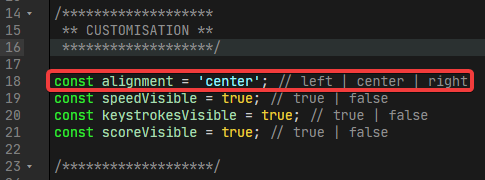
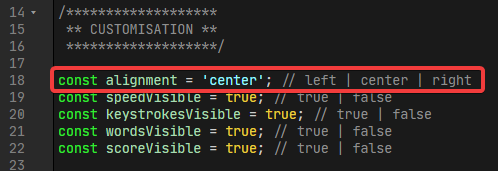
Updated README

diff --git a/README.md b/README.md
@@ -2,9 +2,9 @@
 
 1. [Preview](#preview)
 2. [What are those numbers?](#what-are-those-numbers)
-3. [Supported languages](#supported-languages)
-4. [Custom Stylish theme](#custom-stylish-theme)
-5. [How to Install](#how-to-install)
+3. [How to Install](#how-to-install)
+4. [Supported languages](#supported-languages)
+5. [Custom Stylish theme](#custom-stylish-theme)
 6. [Customization](#customization)
 7. [Auto-Update](#auto-update)
 8. [Bug reports, suggestions, contact](#bug-reports-suggestions-contact)
@@ -18,8 +18,37 @@
 All of these values are updated whenever you go to the next word (pressing space).
 
 - The "_Speed_" value is your current speed (in WPM = Words Per Minute)
-- The "_Keystrokes_" values are the number of keystrokes you hit. In green, the correct keystrokes and in red, the wrong keystrokes. On 10FF, when you typed a word wrong, all the keystrokes are considered wrong (even if you did just one mistake).
+- The "_Keystrokes_" values are the number of keystrokes you hit:
+  - In green, the correct keystrokes and in red, the wrong keystrokes
+  - On 10FF, when you typed a word wrong, all the keystrokes are considered wrong, even if you did just one mistake
+- The "_Words_" value is the number of words you typed:
+  - In green, the correct words and in red, the wrong words
+  - On 10FF, when you typed a word wrong, it is considered wrong even if you did just one mistake
 - The "_Score_" value is your current score (in WPM). If you stop the test, the score will be your final result. Your final result can not be less than the score.
+
+## How to Install
+
+### 1.
+Download the **tampermonkey** extension or an equivalent:
+- Chrome: https://chrome.google.com/webstore/detail/tampermonkey/dhdgffkkebhmkfjojejmpbldmpobfkfo?hl=en
+- Firefox: https://addons.mozilla.org/en-US/firefox/addon/tampermonkey/
+
+### 2.
+<details>
+  <summary>Click on the extension, then <b>Create New Script</b></summary>
+
+  ![Image](./README/1.png)
+</details>
+
+### 3.
+Copy & paste the content of the [script.js](./script.js) file, and save it
+
+### 4.
+<details>
+  <summary>Now you can go on <a href="https://10fastfingers.com/typing-test/">https://10fastfingers.com/typing-test</a> and toggle the script by clicking on the icon</summary>
+
+  ![Image](./README/2.png)
+</details>
 
 ## Supported languages
 
@@ -57,41 +86,19 @@ Here are some examples:
 
 ![Styles Preview](./README/preview_styles.png)
 
-## How to Install
-
-1. Download the [tampermonkey](https://chrome.google.com/webstore/detail/tampermonkey/dhdgffkkebhmkfjojejmpbldmpobfkfo?hl=en) Chrome extension or an equivalent
-
-2. Click on the extension, then **Create New Script**
-<details>
-  <summary>Image</summary>
-
-  ![Image](./README/1.png)
-</details>
-
-3. Copy & paste the content of the [script.js](./script.js) file, and save it
-
-4. Now you can go on https://10fastfingers.com/typing-test and toggle the script by clicking on the icon
-<details>
-  <summary>Image</summary>
-
-  ![Image](./README/2.png)
-</details>
-
 ## Customization
 
-You can change the alignment of the values by editing the `alignment` variable to `left`, `center` or `right`:
-
-![Alignments](./README/alignments.png)
-
 <details>
-  <summary>Image</summary>
+  <summary>You can change the alignment of the values by editing the <code>alignment</code> variable to <code>left</code>, <code>center</code> or <code>right</code>:</summary>
+
 
   ![CustomAlignment](./README/custom_align.png)
 </details>
 
-You can change the visibility of the values by editing the `*Visible` variables to `true` (visible) or `false` (collapsed):
+![Alignments](./README/alignments.png)
+
 <details>
-  <summary>Image</summary>
+  <summary>You can change the visibility of the values by editing the <code>*Visible</code> variables to <code>true</code> (visible) or <code>false</code> (collapsed):</summary>
 
   ![CustomVisibility](./README/custom_visibility.png)
 </details>
@@ -100,30 +107,30 @@ You can change the visibility of the values by editing the `*Visible` variables 
 
 With tampermonkey, you can input an URL to the file in order to update it automatically:
 
-1. Click on the extension, then click on the **+** icon to the right of the script, then **Edit**
+### 1.
 <details>
-  <summary>Image</summary>
+  <summary>Click on the extension, then click on the **+** icon to the right of the script, then <b>Edit</b></summary>
 
   ![Image](./README/auto-update/1-1.gif)
 </details>
 
-2. Click on the **Settings** tab
+### 2.
 <details>
-  <summary>Image</summary>
+  <summary>Click on the <b>Settings</b> tab</summary>
 
   ![Image](./README/auto-update/1-2.png)
 </details>
 
-3. On the **Updates** section, copy this URL in the textbox: `https://raw.githubusercontent.com/wRadion/10FFLiveWPMScript/master/script.js`
+### 3.
 <details>
-  <summary>Image</summary>
+  <summary>On the <b>Updates</b> section, copy this URL in the textbox: <code>https://raw.githubusercontent.com/wRadion/10FFLiveWPMScript/master/script.js</code></summary>
 
   ![Image](./README/auto-update/1-3.png)
 </details>
 
-4. Check the **Check for updates** checkbox and click **Save**
+### 4.
 <details>
-  <summary>Image</summary>
+  <summary>Check the <b>Check for updates</b> checkbox and click <b>Save</b></summary>
 
   ![Image](./README/auto-update/1-4.png)
 </details>
@@ -132,23 +139,23 @@ With tampermonkey, you can input an URL to the file in order to update it automa
 
 You can change the update interval in the tampermonkey settings:
 
-1. Click on the extension, then **Dashboard**
+### 1.
 <details>
-  <summary>Image</summary>
+  <summary>Click on the extension, then <b>Dashboard</b></summary>
 
   ![Image](./README/auto-update/2-1.png)
 </details>
 
-2. Click on **Settings** on the right
+### 2.
 <details>
-  <summary>Image</summary>
+  <summary>Click on <b>Settings</b> on the right</summary>
 
   ![Image](./README/auto-update/2-2.png)
 </details>
 
-3. In **Script Update**, you can change the **Check Interval**
+### 3.
 <details>
-  <summary>Image</summary>
+  <summary>In <b>Script Update</b>, you can change the <b>Check Interval</b></summary>
 
   ![Image](./README/auto-update/2-3.png)
 </details>
